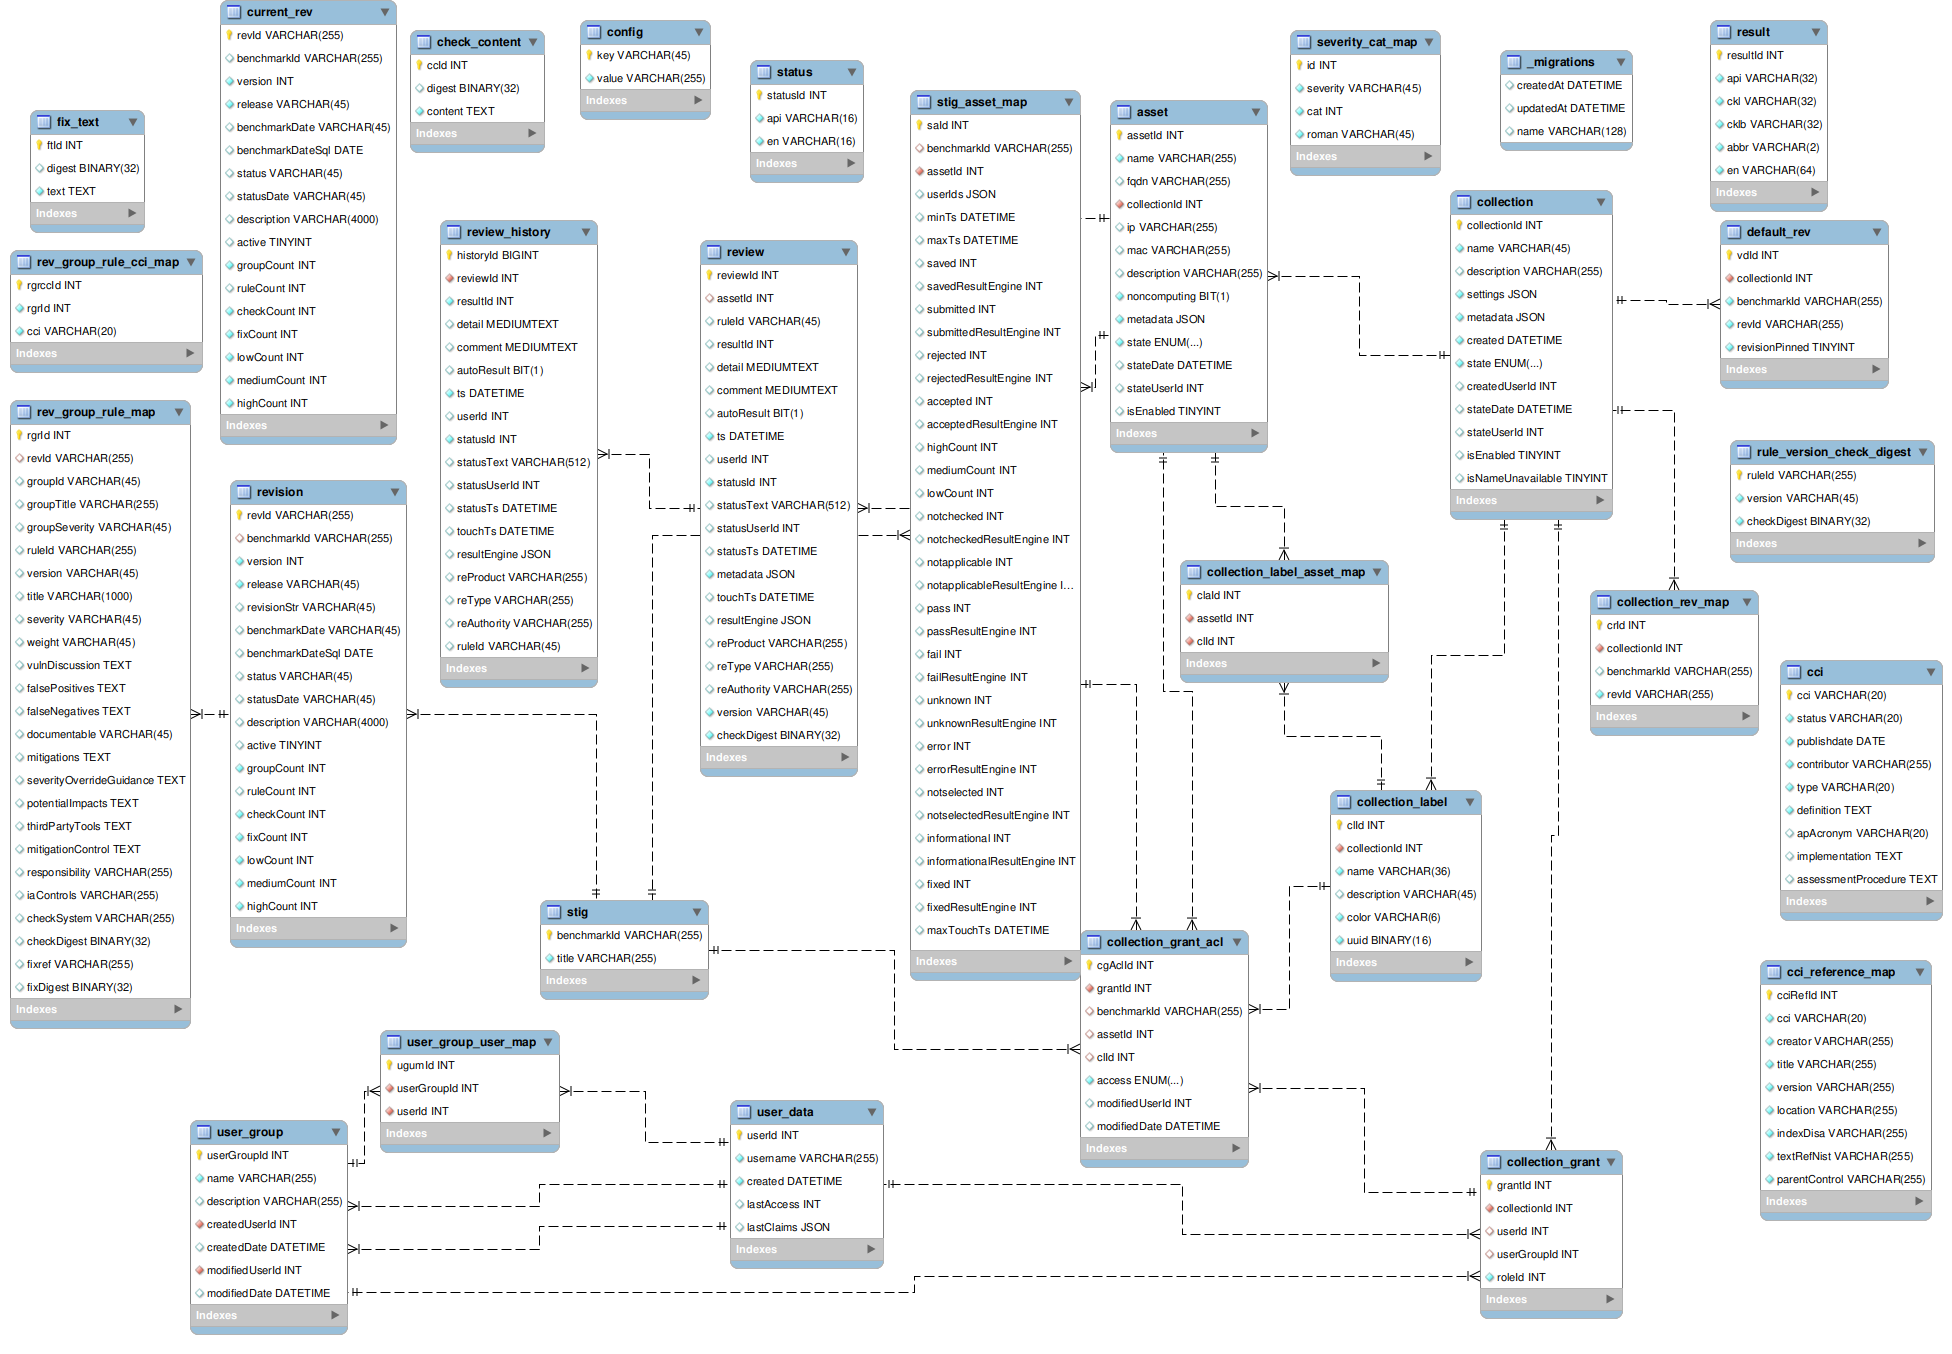
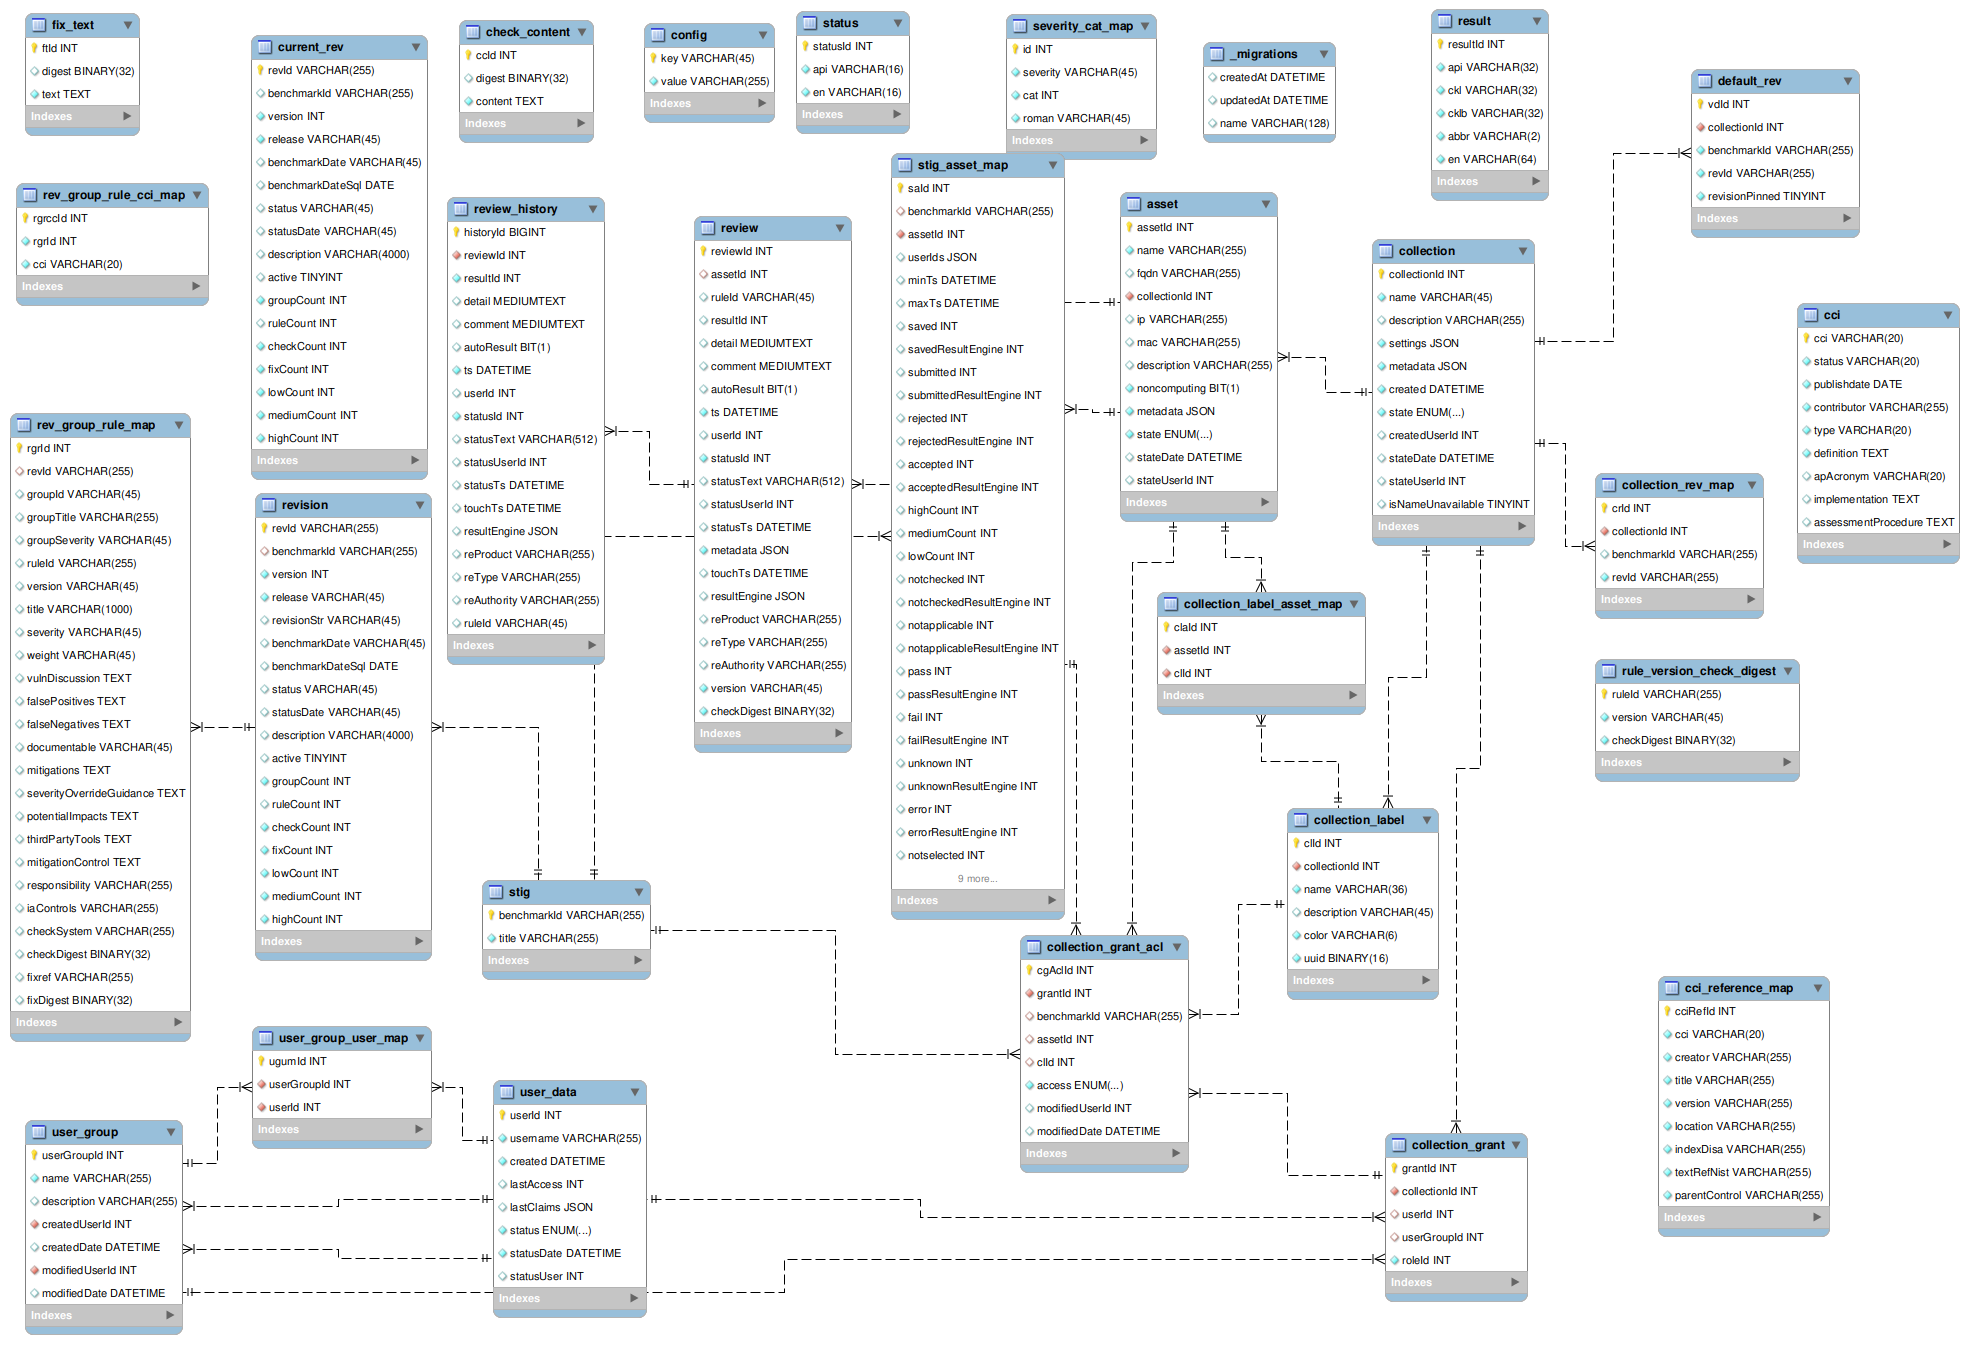
enhances migration. updates current schema files, adds ERD.

Changed region(s): [[0.0, 0.0, 1.0, 0.9993], [0.375, 0.8119, 0.4688, 0.9368]]

diff --git a/api/source/service/migrations/0041.js b/api/source/service/migrations/0041.js
@@ -1,21 +1,74 @@
-const MigrationHandler = require('./lib/MigrationHandler')
+const logger = require('../../utils/logger')
+const path = require('node:path')
 
-const upMigration = [
-  `CREATE VIEW enabled_asset AS SELECT * FROM asset WHERE state = 'enabled'`,
-  `CREATE VIEW enabled_collection AS SELECT * FROM collection WHERE state = 'enabled'`,
-  `CREATE INDEX idx_collectionId_state ON asset (collectionId, state)`
-]
+const migrationName = path.basename(__filename, '.js')
 
-const downMigration = [
-]
+const upFn = async (pool, migrationName) => {
+  const connection = await pool.getConnection()
 
-const migrationHandler = new MigrationHandler(upMigration, downMigration)
-module.exports = {
-  up: async (pool) => {
-    await migrationHandler.up(pool, __filename)
-  },
-  down: async (pool) => {
-    await migrationHandler.down(pool, __filename)
+  // drop isEnabled from asset if it exists
+  const [assetCol] = await connection.query(`
+    SELECT COUNT(*) AS count
+    FROM INFORMATION_SCHEMA.COLUMNS
+    WHERE TABLE_SCHEMA = DATABASE()
+      AND TABLE_NAME = 'asset'
+      AND COLUMN_NAME = 'isEnabled'
+  `)
+
+  if (assetCol[0].count === 1) {
+    const dropIndex = `DROP INDEX INDEX_NAME_COLLECTION_ENABLED ON asset`
+    const dropAsset = `ALTER TABLE asset DROP COLUMN isEnabled`
+
+    logger.writeInfo('mysql', 'migration', { status: 'running', name: migrationName, statement: dropIndex })
+    await connection.query(dropIndex)
+
+    logger.writeInfo('mysql', 'migration', { status: 'running', name: migrationName, statement: dropAsset })
+    await connection.query(dropAsset)
   }
+
+  // drop isEnabled from collection if it exists
+  const [collectionCol] = await connection.query(`
+    SELECT COUNT(*) AS count
+    FROM INFORMATION_SCHEMA.COLUMNS
+    WHERE TABLE_SCHEMA = DATABASE()
+      AND TABLE_NAME = 'collection'
+      AND COLUMN_NAME = 'isEnabled'
+  `)
+
+  if (collectionCol[0].count === 1) {
+    const dropIndex = `DROP INDEX index2 ON collection`
+    const dropCollection = `ALTER TABLE collection DROP COLUMN isEnabled`
+
+    logger.writeInfo('mysql', 'migration', { status: 'running', name: migrationName, statement: dropIndex })
+    await connection.query(dropIndex)
+
+    logger.writeInfo('mysql', 'migration', { status: 'running', name: migrationName, statement: dropCollection })
+    await connection.query(dropCollection)
+  }
+
+  // create or replace new views
+  const createEnabledAssetView = `CREATE OR REPLACE VIEW enabled_asset AS SELECT * FROM asset WHERE state = 'enabled'`
+  const createEnabledCollectionView = `CREATE OR REPLACE VIEW enabled_collection AS SELECT * FROM collection WHERE state = 'enabled'`
+
+  logger.writeInfo('mysql', 'migration', { status: 'running', name: migrationName, statement: createEnabledAssetView })
+  await connection.query(createEnabledAssetView)
+
+  logger.writeInfo('mysql', 'migration', { status: 'running', name: migrationName, statement: createEnabledCollectionView })
+  await connection.query(createEnabledCollectionView)
+
+  await connection.release()
 }
 
+module.exports = {
+  up: async (pool) => {
+    try {
+      logger.writeInfo('mysql', 'migration', { status: 'start', direction: 'up', migrationName })
+      await upFn(pool, migrationName)
+      logger.writeInfo('mysql', 'migration', { status: 'finish', migrationName })
+    } catch (e) {
+      logger.writeError('mysql', 'migration', { status: 'error', migrationName, message: e.message })
+      throw e
+    }
+  },
+  down: () => {}
+}
